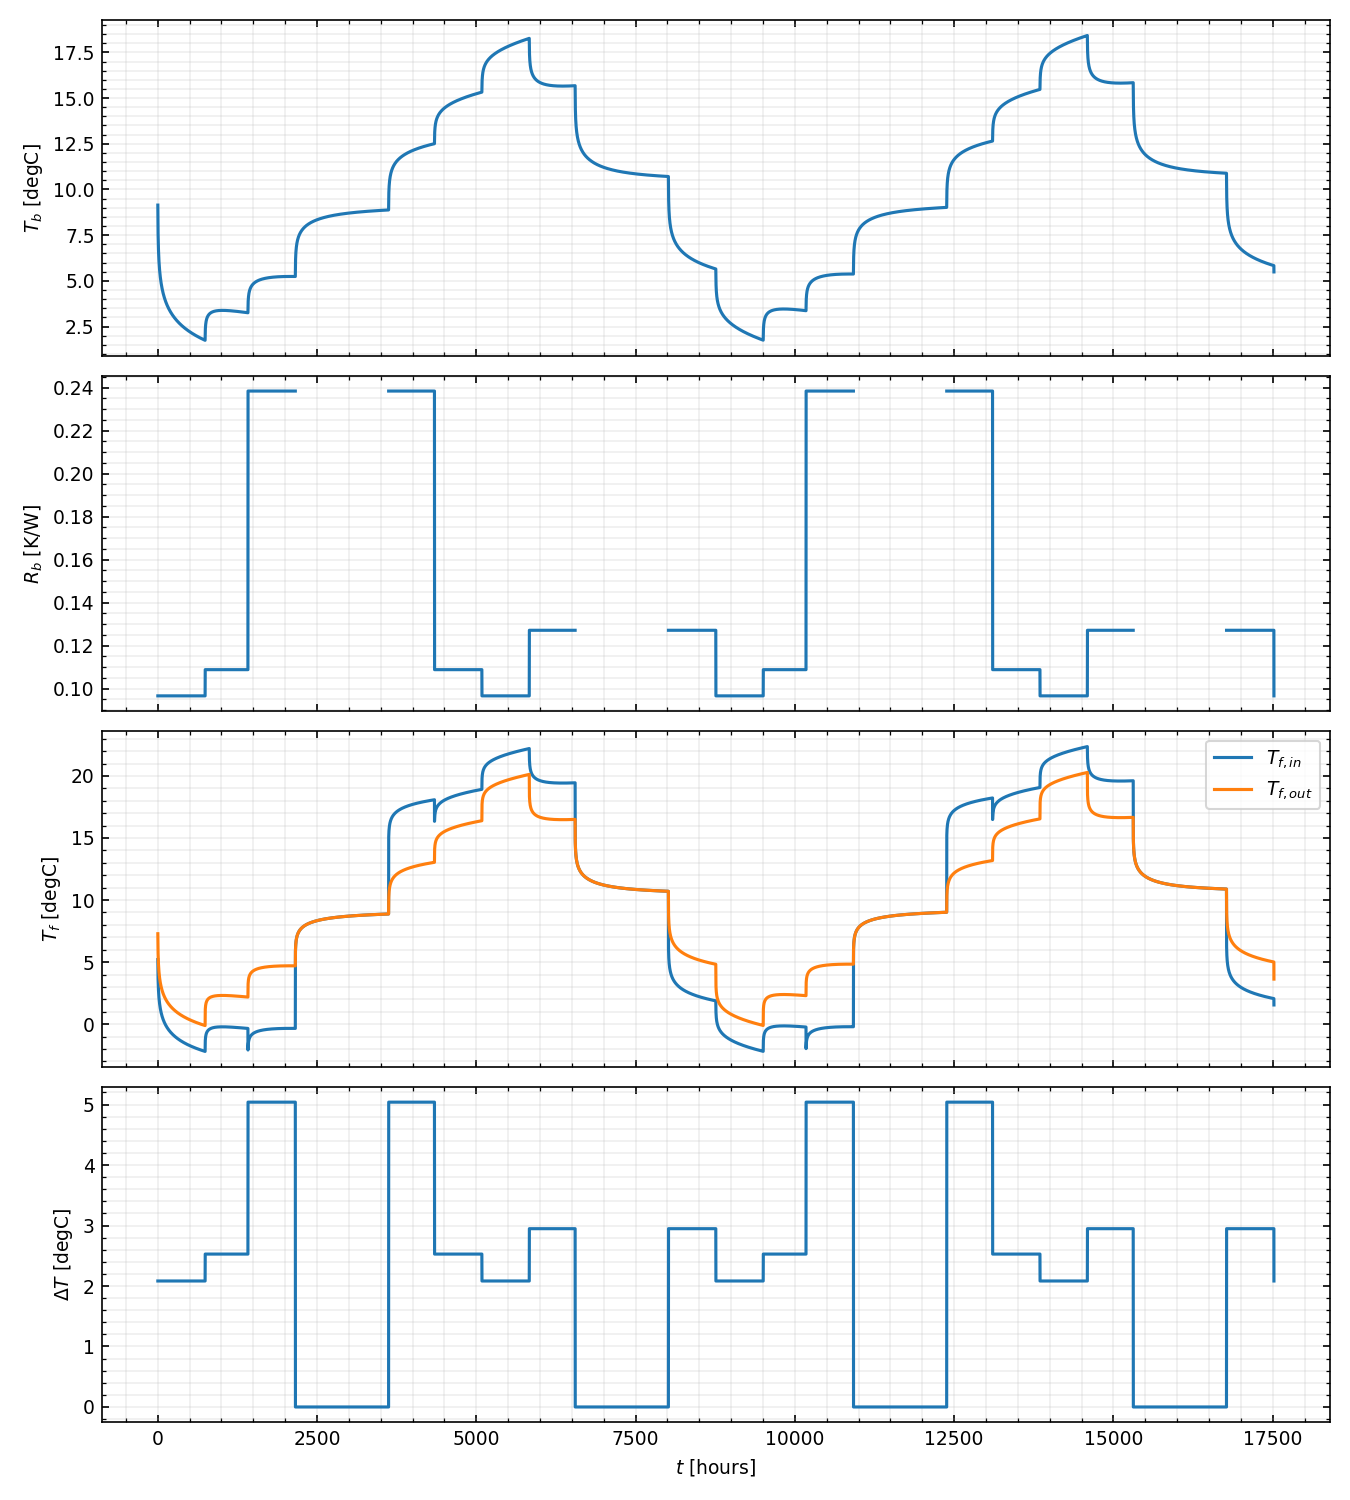
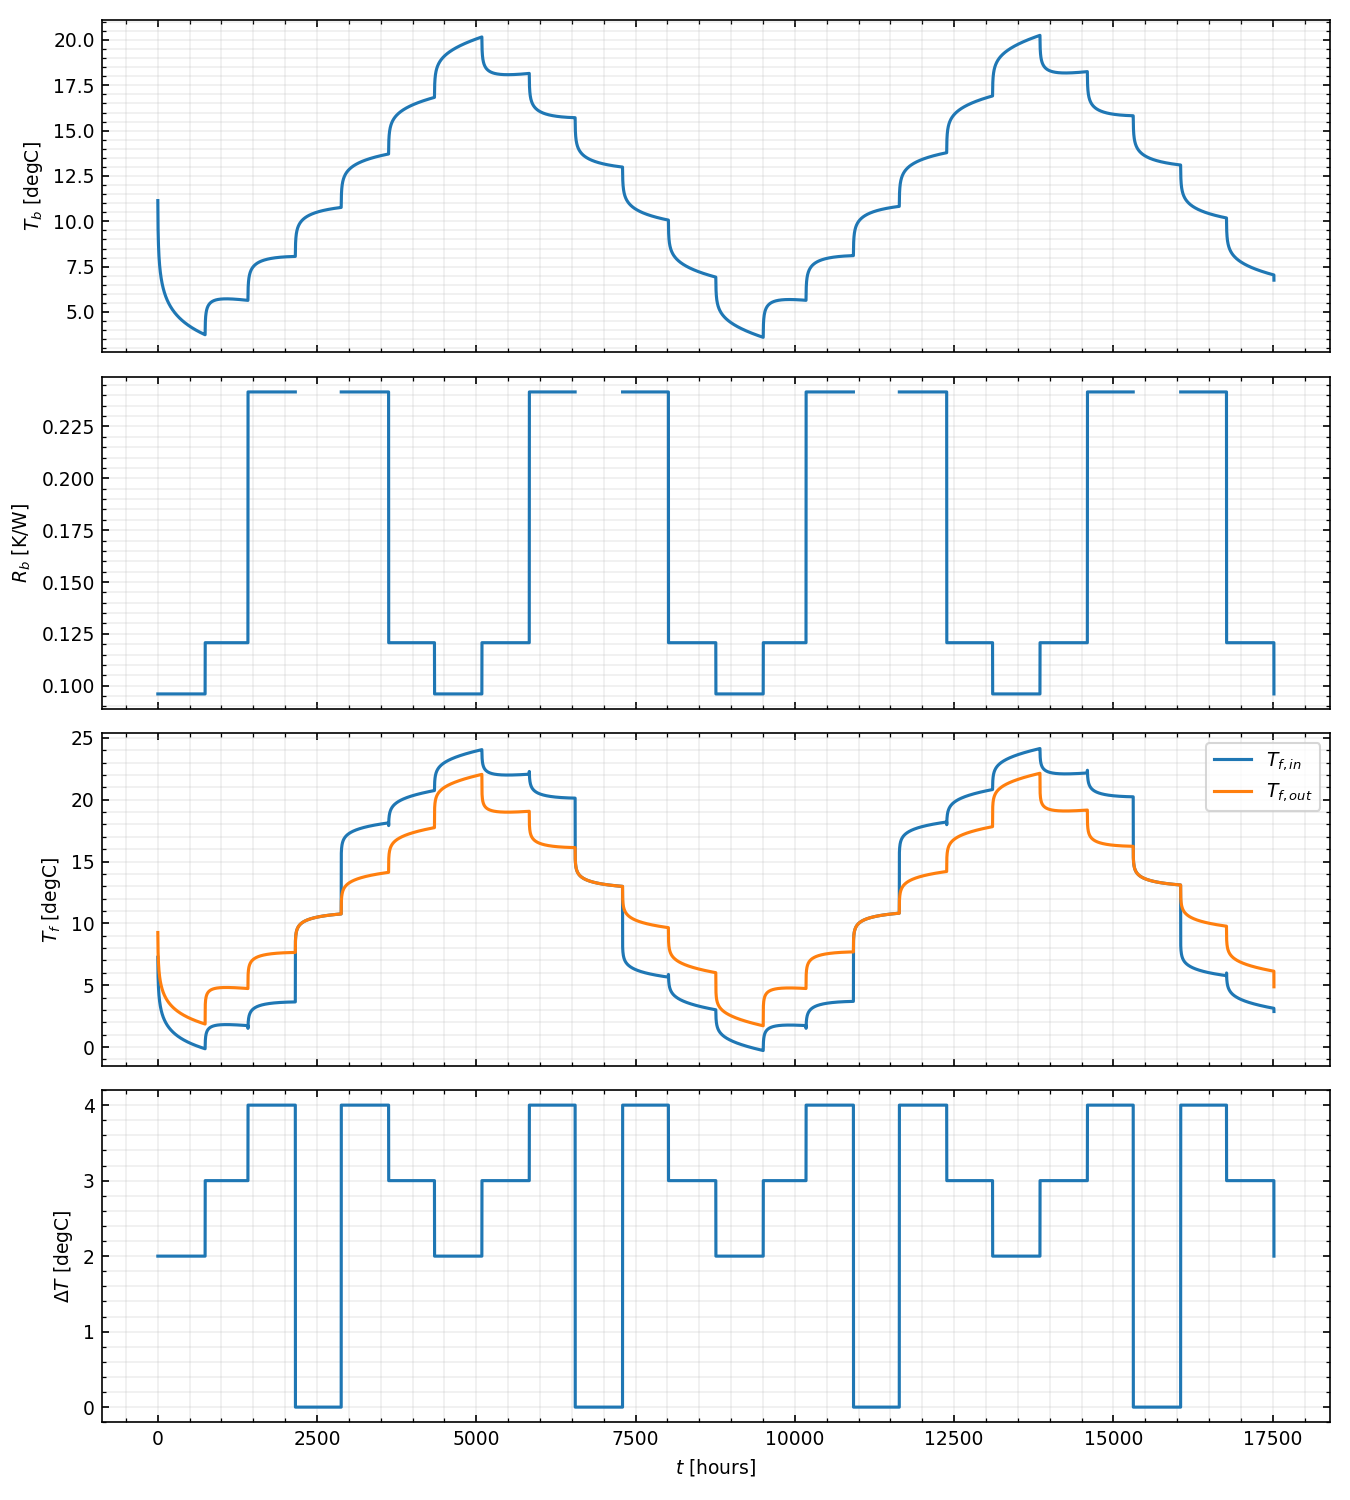
update syntetic_load_and_flow

diff --git a/example_varflow.py b/example_varflow.py
@@ -61,7 +61,7 @@ def main():
     # Ground properties
     alpha = 1.0e-6      # Ground thermal diffusivity (m2/s)
     k_s = 2.0           # Ground thermal conductivity (W/m.K)
-    T_g = 10.0          # Undisturbed ground temperature (degC)
+    T_g = 12.0          # Undisturbed ground temperature (degC)
 
     # Grout properties
     k_g = 1.0           # Grout thermal conductivity (W/m.K)
@@ -138,9 +138,7 @@ def main():
     # -------------------------------------------------------------------------
 
     # 1) Calculate T_b (borehole wall temperature)
-    q_b_per_m, m_flow_borehole_ts = synthetic_load_and_flow(
-        time / 3600., max_w_per_m=30.0
-    )
+    q_b_per_m, m_flow_borehole_ts = synthetic_load_and_flow(time / 3600., max_w_per_m=30.0, cp_f=cp_f, H=H)
     Q_tot = nBoreholes * H * q_b_per_m
 
     T_b = simulate_Tb(
@@ -156,7 +154,7 @@ def main():
     # 2) Create mass flow grid and network grid for R_b(m_flow) and T_f calculation
     m_flow_total = m_flow_borehole_ts * nBoreholes
 
-    m_min = float(0)
+    m_min = float(0.01)
     m_max = float(np.nanmax(m_flow_borehole_ts)*1.2)
     m_grid = np.linspace(m_min, m_max, 50)  # 50 grid points
 
@@ -179,6 +177,8 @@ def main():
     # Calculate R_b for R_b vs. m_flow plot
     Rb_grid = compute_Rb_grid_for_plot(m_grid, network_grid, nBoreholes, cp_f)
     R_b_ts = np.interp(m_flow_borehole_ts, m_grid, Rb_grid)
+    # Setze R_b_ts auf NaN, wenn m_flow_borehole_ts <= 0
+    R_b_ts[m_flow_borehole_ts <= 0] = np.nan
     # Optionally plot R_b at unique simulation values if less than 25 unique values
     m_sim_uni = np.unique(m_flow_borehole_ts[(~np.isnan(m_flow_borehole_ts)) & (m_flow_borehole_ts != 0)])
     if len(m_sim_uni) <= 25:
@@ -204,7 +204,7 @@ def main():
         r_in=r_in,
         r_out=r_out,
         n_pipes=n_pipes,
-        out_path=out_dir / "borefield_cross_section.png",
+        out_path=out_dir / "BHE_cross_section.png",
     )
 
     # Input plot (q_b and m_flow)
@@ -315,51 +315,38 @@ def compute_Rb_grid_for_plot(m_grid, network_grid, nBoreholes, cp_f):
             Rb_grid[i] = gt.networks.network_thermal_resistance(net, m_flow_network, cp_f)
     return Rb_grid
 
-
-
-def synthetic_load_and_flow(x, *, max_w_per_m: float = 30.0):
+def synthetic_load_and_flow(x, *, max_w_per_m: float = 30.0, cp_f: float = 4180.0, H: float = 100.0):
     """
     Monthly step load: max extraction in January, max recharge ~6 months later.
+    Analytical mass flow calculation based on target deltaT_target.
 
     Returns:
       - q_b_per_m: load per meter (W/m)
-        (both set to 0 when |q_b_per_m| < 10 W/m)
+      - m_flow_borehole: analytisch für ΔT=4K (kg/s/m)
     """
     hours = np.asarray(x, dtype=float)
     hours_in_year = 24.0 * 365.0
     day_of_year = (hours % hours_in_year) / 24.0
 
-    month_starts = np.array(
-        [0, 31, 59, 90, 120, 151, 181, 212, 243, 273, 304, 334, 365],
-        dtype=float,
-    )
+    #monthly load factors and deltaT values
+    month_load_factors = np.array([1, 2/3, 1/3, 0, -1/3, -2/3, -1, -2/3, -1/3, 0, 1/3, 2/3], dtype=float)
+    month_deltaT = np.array([2, 3, 4, 0, 4, 3, 2, 3, 4, 0, 4, 3], dtype=float)  # 0 for no flow months
+
+    month_starts = np.array([0, 31, 59, 90, 120, 151, 181, 212, 243, 273, 304, 334, 365], dtype=float)
     month_index = np.searchsorted(month_starts[1:], day_of_year, side="right")
 
-    max_w = float(max_w_per_m)
-    ramp1 = np.linspace(max_w, -max_w, 8)
-    ramp2 = np.linspace(-max_w, max_w, 6)
-    monthly_values_per_m = np.concatenate([ramp1, ramp2[1:5]])
+    q_b_per_m = month_load_factors[month_index] * max_w_per_m
 
-    q_b_per_m = monthly_values_per_m[month_index].astype(float)
-
-    abs_q = np.abs(q_b_per_m)
-    min_flow = 0.02
-    max_flow = 0.5
-    q_ref = 10.0
-
-    m_flow_borehole = np.zeros_like(abs_q, dtype=float)
-    if max_w_per_m > q_ref:
-        slope = (max_flow - min_flow) / (max_w_per_m - q_ref)
-        m_flow_borehole = np.where(
-            abs_q >= q_ref,
-            np.clip(min_flow + slope * (abs_q - q_ref), min_flow, max_flow),
-            0.0,
-        )
-
-    q_b_per_m = np.where(abs_q < q_ref, 0.0, q_b_per_m)
+    # calculate m_flow_borehole based on deltaT_target
+    m_flow_borehole = np.zeros_like(q_b_per_m, dtype=float)
+    for i, idx in enumerate(month_index):
+        deltaT = month_deltaT[idx]
+        if deltaT > 0 and q_b_per_m[i] != 0:
+            m_flow_borehole[i] = abs(q_b_per_m[i]) / (cp_f * deltaT) * H
+        else:
+            m_flow_borehole[i] = 0.0
 
     return q_b_per_m, m_flow_borehole
-
 
 def plot_borefield_cross_section(
     *,

diff --git a/readme.md b/readme.md
@@ -75,11 +75,24 @@ Key inputs are defined at the top of `example_varflow.py`:
 - Simulation settings (time step `dt`, total duration `tmax`, aggregation options)
 
 **Synthetic load and flow (`synthetic_load_and_flow`)**  
-The load is a monthly step profile that ramps from maximum extraction to maximum recharge across the year.
-The maximum load is set by the user in watts per borehole meter, and the default is 30 W/m.
-The mass flow per borehole scales with the absolute load: it is zero below 10 W/m, then increases linearly between a minimum and maximum flow up to the specified peak load.
+The load profile was created as an example/test case for demonstration. It is defined by monthly steps:
 
-These inputs control the geometry, thermal response, and the time‑varying load/flow behavior.
+| Month | Load Factor | ΔT (K) |
+|-------|-------------|--------|
+|   1   |   max_load  |   2    |
+|   2   |   2/3       |   3    |
+|   3   |   1/3       |   4    |
+|   4   |   0         |   0    |
+|   5   |  -1/3       |   4    |
+|   6   |  -2/3       |   3    |
+|   7   |  -max_load  |   2    |
+|   8   |  -2/3       |   3    |
+|   9   |  -1/3       |   4    |
+|  10   |   0         |   0    |
+|  11   |   1/3       |   4    |
+|  12   |   2/3       |   3    |
+
+For each month, the mass flow per borehole is calculated analytically so that the temperature difference ΔT matches the table above for the given load. If the load is zero, the mass flow is set to zero.
 
 ## Outputs
 
